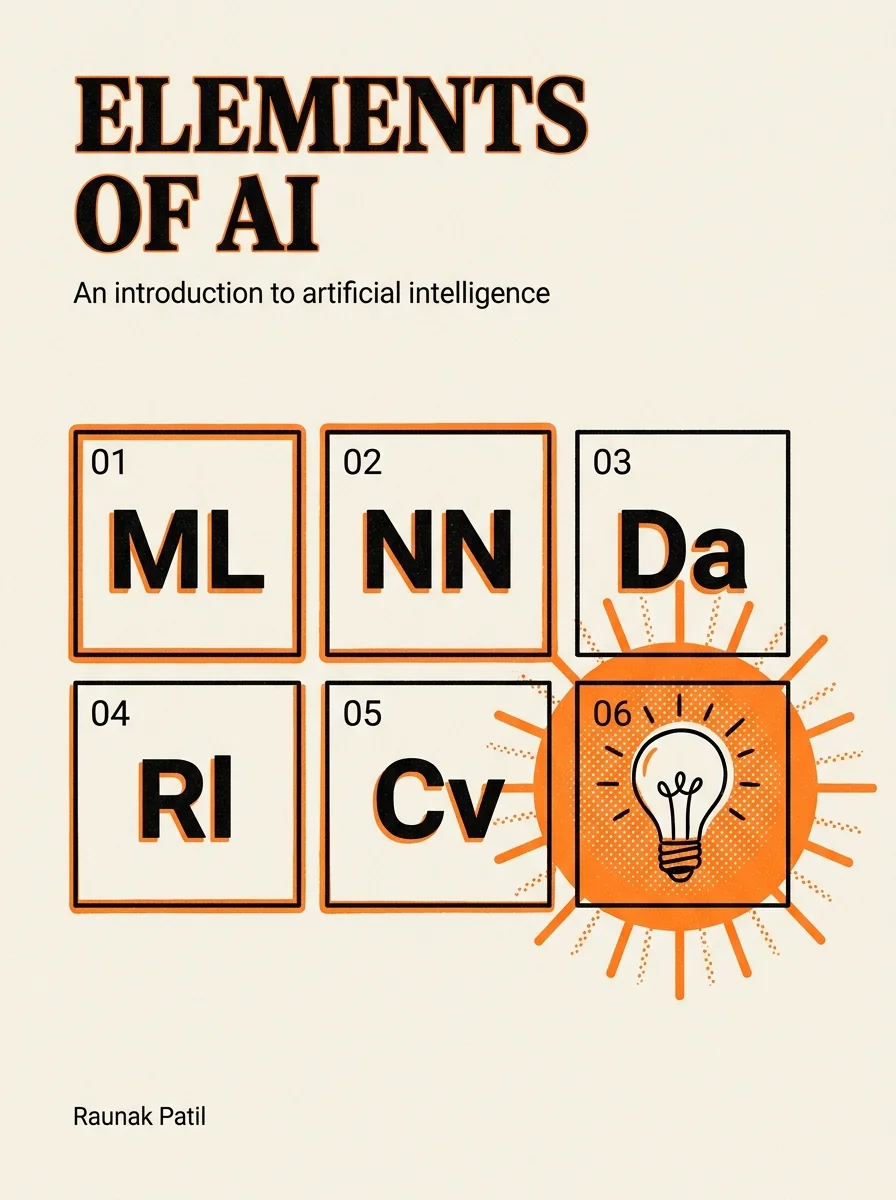
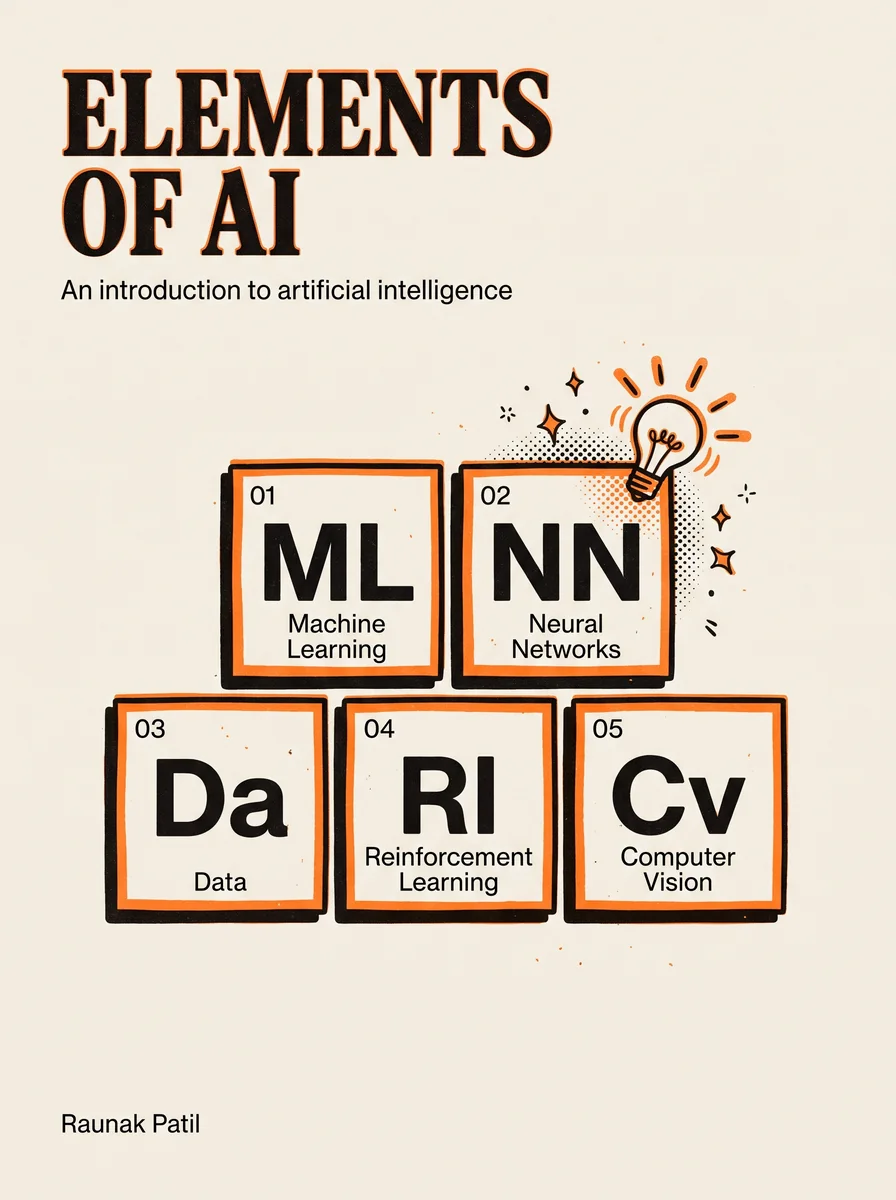
Certificate covers: RAG added, Elements of AI updated

diff --git a/js/data.js b/js/data.js
@@ -180,14 +180,14 @@ window.PORTFOLIO = {
      one-line `brief`, the skills and the credential id.
      url: link for "Show credential" (leave '' to hide the link). */
   certifications: [
-    { short: 'RAG: Retrieval-augmented generation', spine: '#2b3fa8', ink: '#f2f0ea', coverInk: '#2b3fa8', colors: ['#dfe6f5', '#2b3fa8'], brief: 'How retrieval-augmented generation works: embeddings and vector databases, retrieval, building RAG pipelines and keeping hallucinations in check.', title: 'RAG: Retrieval-augmented generation', issuer: 'Great Learning', date: 'Oct 2026', id: 'SUYFCKKU', skills: ['RAG Pipelines', 'Embeddings & Vector DBs', 'Information Retrieval', 'LLMs & Prompting'], url: 'https://www.mygreatlearning.com/certificate/SUYFCKKU' },
+    { short: 'RAG: Retrieval-augmented generation', cover: 'img/covers/cert-rag.webp', spine: '#2b3fa8', ink: '#f2f0ea', coverInk: '#2b3fa8', colors: ['#dfe6f5', '#2b3fa8'], brief: 'How retrieval-augmented generation works: embeddings and vector databases, retrieval, building RAG pipelines and keeping hallucinations in check.', title: 'RAG: Retrieval-augmented generation', issuer: 'Great Learning', date: 'Oct 2026', id: 'SUYFCKKU', skills: ['RAG Pipelines', 'Embeddings & Vector DBs', 'Information Retrieval', 'LLMs & Prompting'], url: 'https://www.mygreatlearning.com/certificate/SUYFCKKU' },
     { short: 'Generative AI & LLMs', cover: 'img/covers/cert-gen-ai.webp', spine: '#e8553b', ink: '#fff4ec', coverInk: '#1c1c1c', colors: ['#f6e27a', '#e8553b'], photo: 'img/certs/generative-ai.webp', brief: 'How transformer models and large language models work, and how to put them to work.', title: 'Generative AI: Working with Large Language Models', issuer: 'LinkedIn Learning', date: 'Apr 2026', skills: ['Transformer Models', 'NLP', 'LLMs'], url: 'https://www.linkedin.com/in/raunakpatil/details/certifications/' },
     { short: 'Agentic AI', cover: 'img/covers/cert-agentic-ai.webp', spine: '#1c1c1c', ink: '#f2f0ea', coverInk: '#f2f0ea', colors: ['#1c1c1c', '#ff7a1a'], photo: 'img/certs/agentic-ai.webp', brief: 'Architectures and frameworks for AI agents that plan, use tools and act on their own.', title: 'Agentic AI Fundamentals: Architectures, Frameworks, and Applications', issuer: 'LinkedIn Learning', date: 'Apr 2026', skills: ['AI Agents', 'Agentic AI', 'AI Frameworks'], url: 'https://www.linkedin.com/in/raunakpatil/details/certifications/' },
     { short: 'AI in Project Mgmt', cover: 'img/covers/cert-ai-pm.webp', spine: '#2f6fd6', ink: '#f6e27a', coverInk: '#f6e27a', colors: ['#2f6fd6', '#f6e27a'], photo: 'img/certs/ai-project-management.webp', brief: 'Using AI to plan, track and steer projects.', title: 'AI in Project Management', issuer: 'LinkedIn Learning', date: 'Apr 2026', skills: ['AI for Business', 'Project Management', 'AI'], url: 'https://www.linkedin.com/in/raunakpatil/details/certifications/' },
     { short: 'DIAT · AI Professional', cover: 'img/covers/cert-diat.webp', spine: '#2f6b3a', ink: '#f2f0ea', coverInk: '#2f6b3a', colors: ['#efede6', '#2f6b3a'], logo: 'img/logos/drdo.webp', brief: "AI and machine learning, deep neural networks and SQL, certified by DRDO's defence institute.", title: 'DIAT Certified Artificial Intelligence Professional', issuer: 'Defence Institute of Advanced Technology (DIAT), DRDO', date: 'Jul 2021', id: 'OTCC/AIML/B2/2021/1145', skills: ['SQL', 'Deep Neural Networks', 'AI / ML'], url: '' },
     { short: 'Python for AI', cover: 'img/covers/cert-python-ai.webp', spine: '#f2e58c', ink: '#2b3fa8', coverInk: '#2b3fa8', colors: ['#f2e58c', '#2b3fa8'], photo: 'img/certs/python-for-ai.webp', brief: 'Python programming for AI work.', title: 'Python: Python Programming for Artificial Intelligence', issuer: 'Datai Team', date: 'Aug 2021', id: 'UC-13e67c75-000f-4b88-ae98-24036e560021', skills: ['Python', 'AI'], url: 'https://www.udemy.com/certificate/UC-13e67c75-000f-4b88-ae98-24036e560021/' },
     { short: 'NIELIT · Python', cover: 'img/covers/cert-nielit.webp', spine: '#f6b9c4', ink: '#1c1c1c', coverInk: '#1c1c1c', colors: ['#f8e1e4', '#e8553b'], logo: 'img/logos/nielit.webp', brief: "Certified programming in Python from India's national IT institute.", title: 'NIELIT Certified Programming in Python', issuer: 'National Institute of Electronics & IT (NIELIT)', date: 'Jul 2021', id: 'HDO01242', skills: ['Python'], url: '' },
-    { short: 'Elements of AI', cover: 'img/covers/cert-elements-ai.webp', spine: '#ff7a1a', ink: '#1c1c1c', coverInk: '#1c1c1c', colors: ['#f3efe6', '#ff7a1a'], logo: 'img/logos/helsinki.svg', brief: "The basics of AI: what it is, what it can and can't do, and how it learns.", title: 'Elements of AI: Introduction to AI', issuer: 'University of Helsinki', date: 'Jul 2021', skills: ['AI fundamentals'], url: 'https://www.elementsofai.com/' },
+    { short: 'Elements of AI', cover: 'img/covers/cert-elements-ai.webp?v=2', spine: '#ff7a1a', ink: '#1c1c1c', coverInk: '#1c1c1c', colors: ['#f3efe6', '#ff7a1a'], logo: 'img/logos/helsinki.svg', brief: "The basics of AI: what it is, what it can and can't do, and how it learns.", title: 'Elements of AI: Introduction to AI', issuer: 'University of Helsinki', date: 'Jul 2021', skills: ['AI fundamentals'], url: 'https://www.elementsofai.com/' },
   ],
 
   /* My Profile page (open it from the menu, or go to #profile). */

diff --git a/index.html b/index.html
@@ -17,7 +17,7 @@
   <link rel="icon" href="favicon.ico?v=2" sizes="32x32">
   <link rel="apple-touch-icon" href="apple-touch-icon.png?v=2">
   <link rel="preload" href="fonts/gobitta.woff2" as="font" type="font/woff2" crossorigin>
-  <link rel="stylesheet" href="css/style.css?v=20261013031000">
+  <link rel="stylesheet" href="css/style.css?v=20261013040000">
   <script type="importmap">
     { "imports": {
       "three": "https://cdn.jsdelivr.net/npm/three@0.160.0/build/three.module.js",
@@ -312,8 +312,8 @@
     </div>
   </dialog>
 
-  <script src="js/data.js?v=20261013031000"></script>
+  <script src="js/data.js?v=20261013040000"></script>
   <script src="https://cdn.jsdelivr.net/npm/topojson-client@3.1.0/dist/topojson-client.min.js" defer></script>
-  <script src="js/main.js?v=20261013031000" defer></script>
+  <script src="js/main.js?v=20261013040000" defer></script>
 </body>
 </html>
